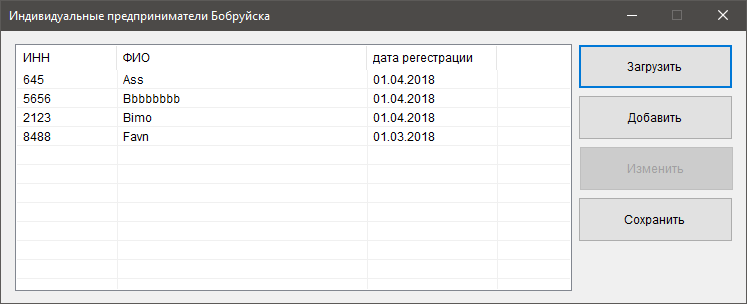
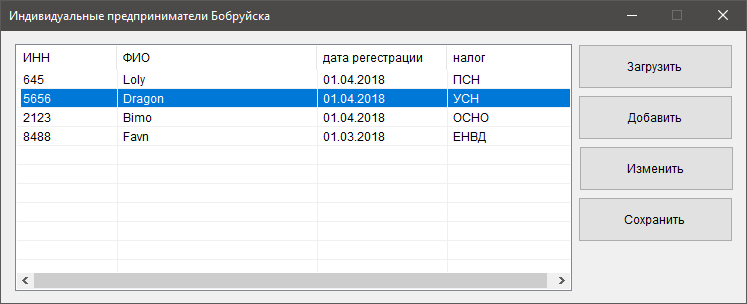
small adds and fixes

diff --git a/business.ui/Form1.cs b/business.ui/Form1.cs
@@ -16,7 +16,12 @@ namespace business.ui
 		private void addToViewList(Subject sbj)
 		{
 			businesMens.Add(sbj);
-			listView1.Items.Add(new ListViewItem(new string[] { sbj.ITaxNum.ToString(), sbj.Name, sbj.StartDate.ToString("dd.MM.yyyy") }));
+			listView1.Items.Add(new ListViewItem(new string[] {
+				sbj.ITaxNum.ToString(),
+				sbj.Name,
+				sbj.StartDate.ToString("dd.MM.yyyy"),
+				sbj.TaxType.ToString()
+			}));
 			countElements++;
 		}
 
@@ -35,9 +40,9 @@ namespace business.ui
 
 
 			listView1.Columns.Add("1", "ИНН", 100);
-			listView1.Columns.Add("2", "ФИО",250);
+			listView1.Columns.Add("2", "ФИО",200);
 			listView1.Columns.Add("3", "дата регестрации", 130);
-
+			listView1.Columns.Add("4", "налог", 130);
 			button3.Enabled = false;
 
 		}
@@ -80,20 +85,27 @@ namespace business.ui
 
 		private void listView1_SelectedIndexChanged(object sender, EventArgs e)
 		{
-			button3.Enabled = true;
+			if (listView1.SelectedItems.Count > 0 && listView1.SelectedItems[0]!= null)
+				button3.Enabled = true;
+			else
+				button3.Enabled = false;
 		}
 
 		private void button3_Click(object sender, EventArgs e)
 		{
-			var id = listView1.SelectedItems[0].Index;
-			var inforow = new addInfo(businesMens[id]);
-			var dialog = inforow.ShowDialog(this);
-			if (dialog == DialogResult.OK)
-			{
-				businesMens[id] = inforow.mainSubject;
-				listView1.Items[id] = new ListViewItem(new string[] { businesMens[id].ITaxNum.ToString(), businesMens[id].Name, businesMens[id].StartDate.ToString("dd.MM.yyyy") });
-			}
-
+				var id = listView1.SelectedItems[0].Index;
+				var inforow = new addInfo(businesMens[id]);
+				var dialog = inforow.ShowDialog(this);
+				if (dialog == DialogResult.OK)
+				{
+					businesMens[id] = inforow.mainSubject;
+					listView1.Items[id] = new ListViewItem(new string[] {
+						businesMens[id].ITaxNum.ToString(),
+						businesMens[id].Name,
+						businesMens[id].StartDate.ToString("dd.MM.yyyy"),
+						businesMens[id].TaxType.ToString()
+					});
+				}
 		}
 
 		private void button4_Click(object sender, EventArgs e)

diff --git a/business.ui/Form1.Designer.cs b/business.ui/Form1.Designer.cs
@@ -67,7 +67,6 @@
 			this.listView1.Cursor = System.Windows.Forms.Cursors.Hand;
 			this.listView1.FullRowSelect = true;
 			this.listView1.GridLines = true;
-			this.listView1.HoverSelection = true;
 			this.listView1.Location = new System.Drawing.Point(14, 13);
 			this.listView1.MultiSelect = false;
 			this.listView1.Name = "listView1";
